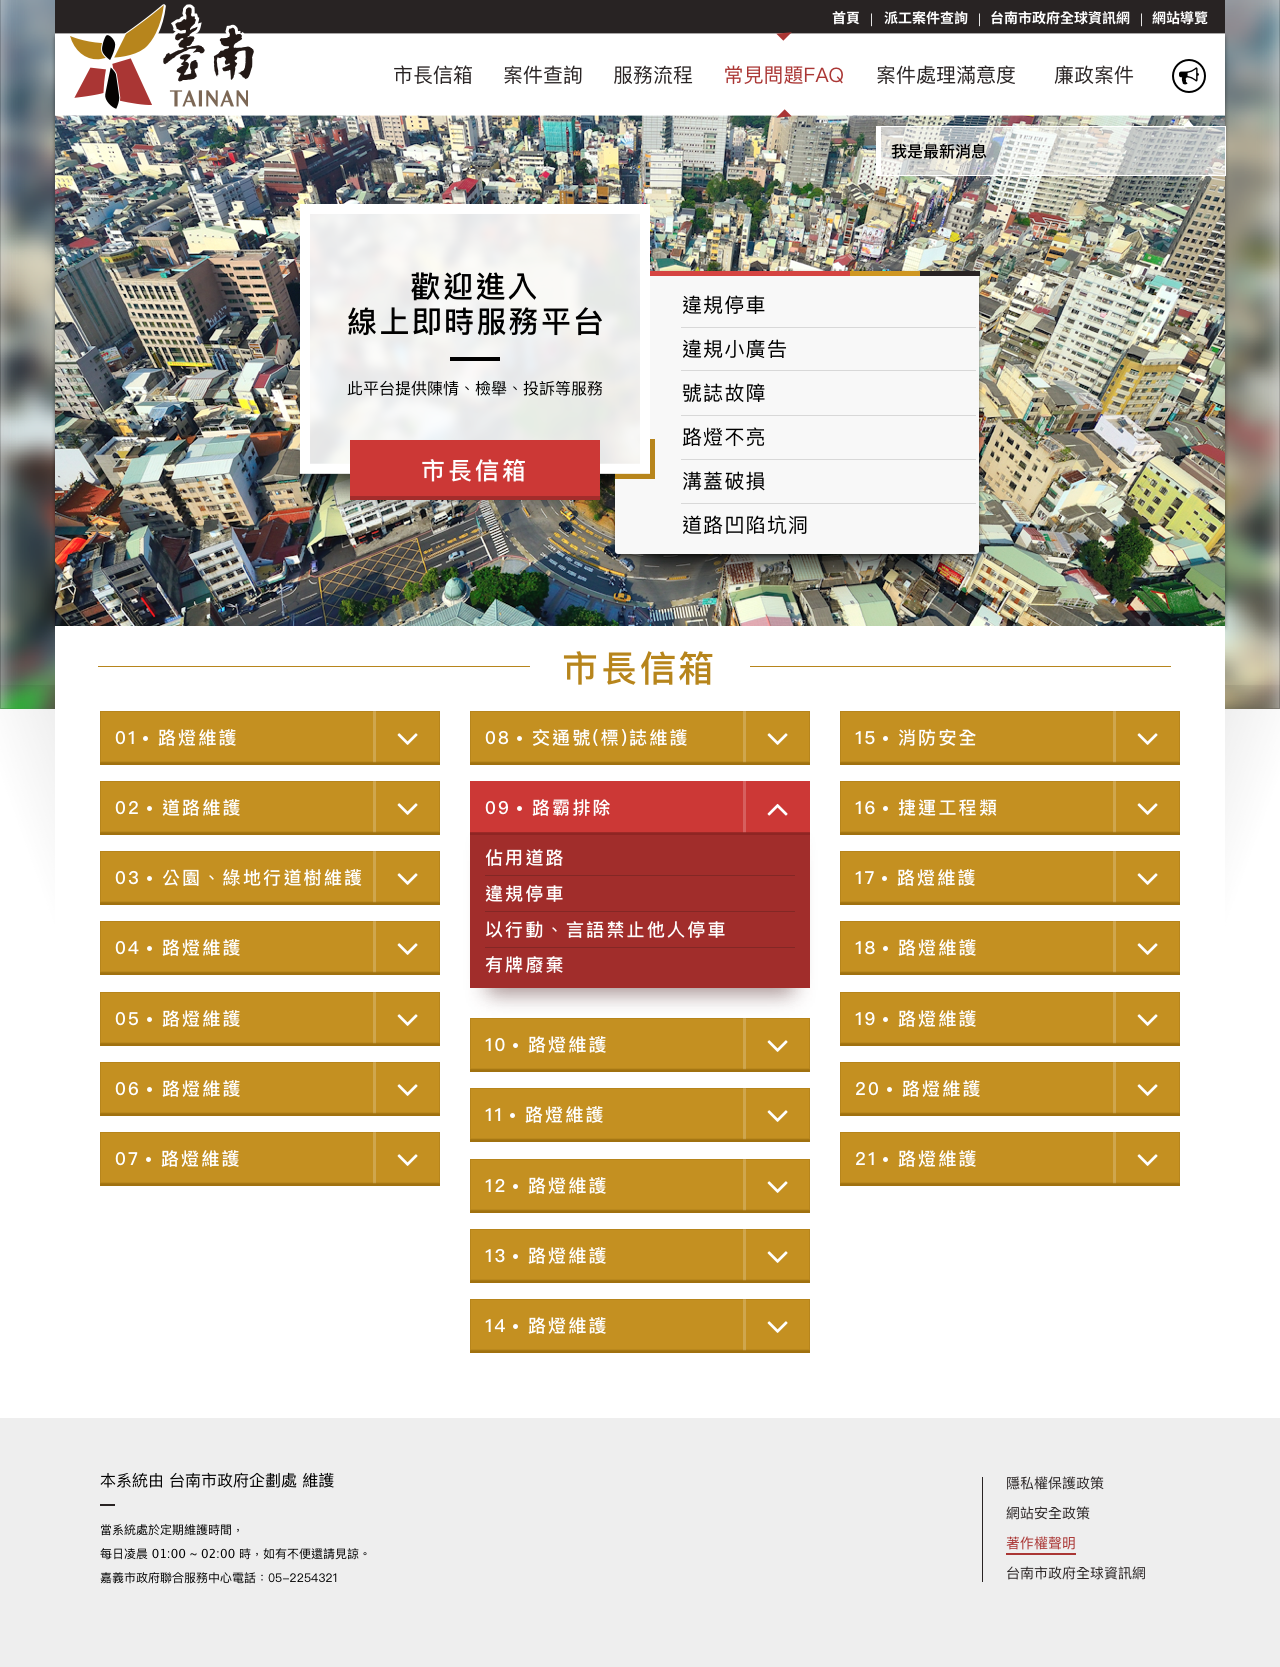
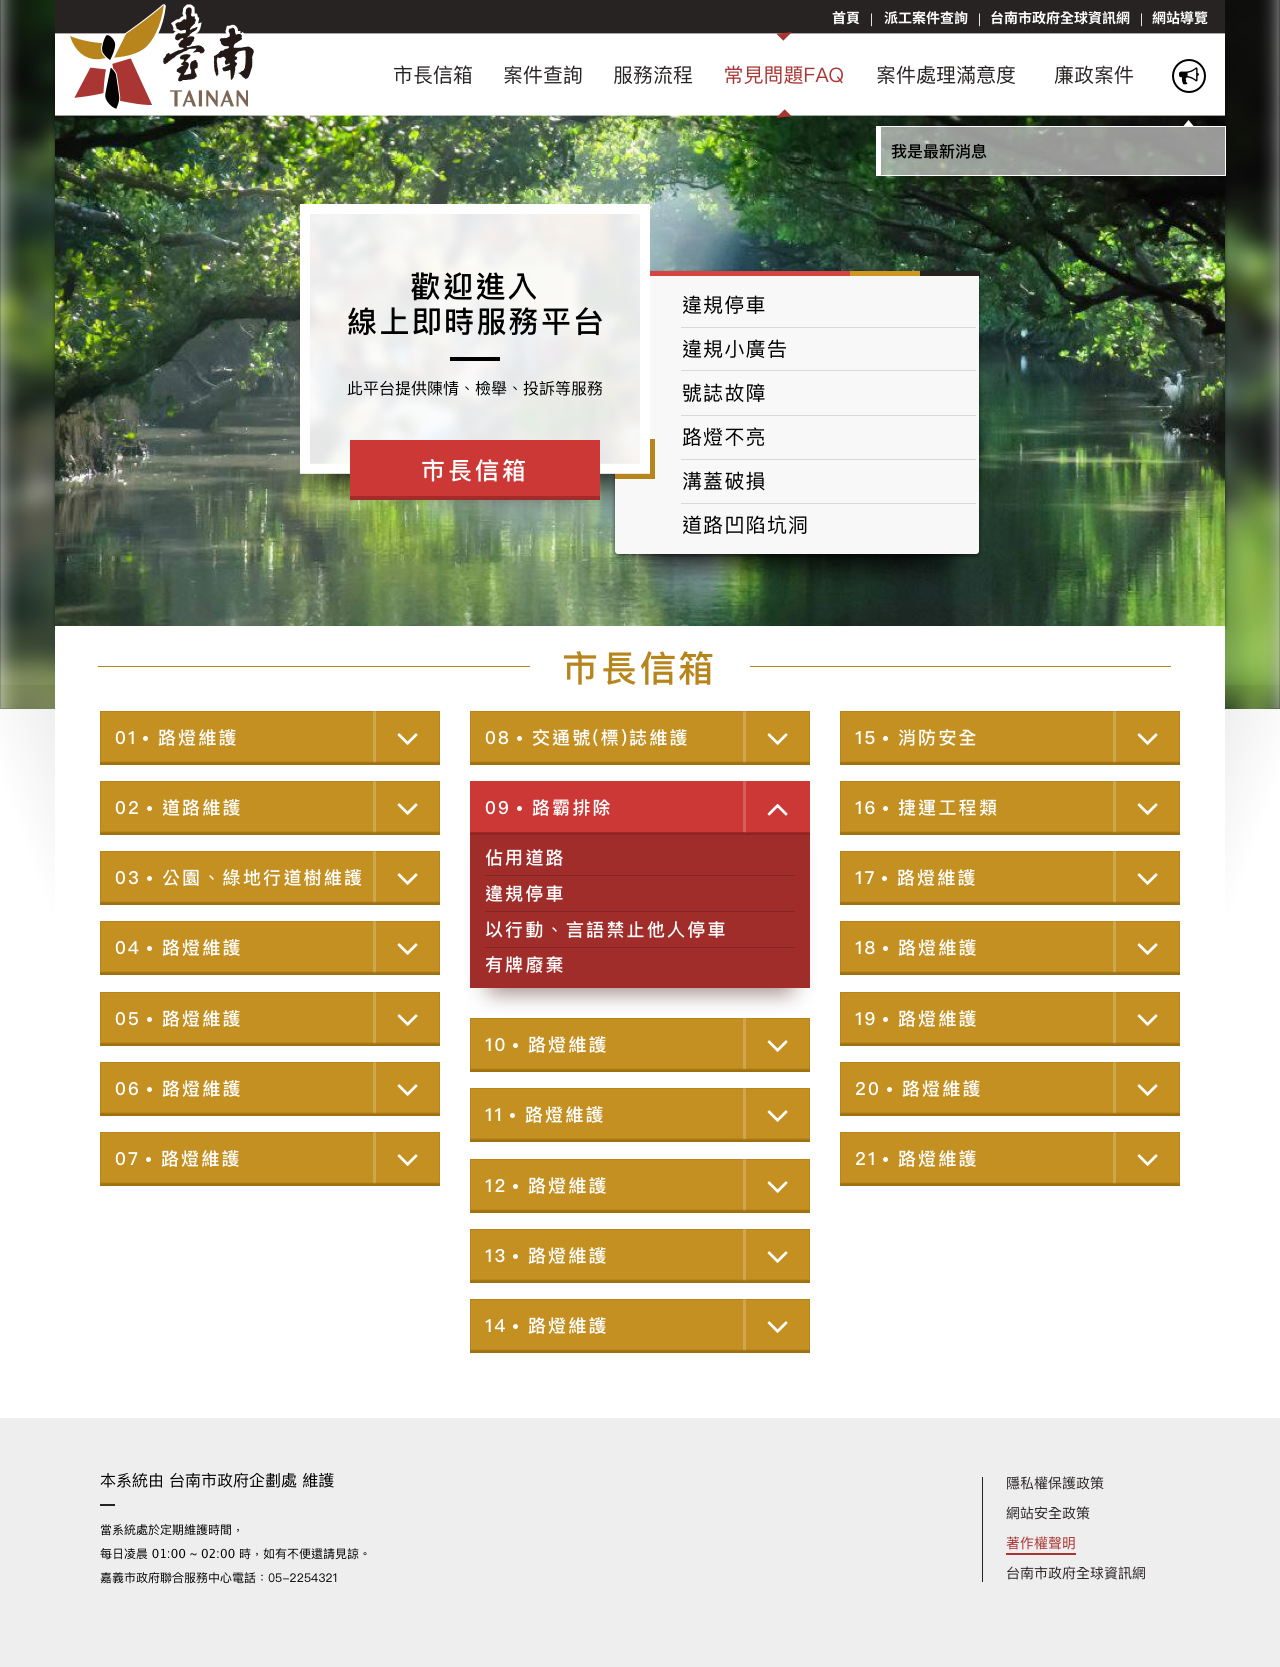
兩種設計

Changed region(s): [[0.0, 0.0, 1.0, 0.4367]]

diff --git a/demo/index2.html b/demo/index2.html
@@ -1,0 +1,27 @@
+<!DOCTYPE html>
+<html lang="en">
+<head>
+    <meta charset="UTF-8">
+    <meta name="viewport" content="width=device-width, initial-scale=1.0">
+    <meta http-equiv="X-UA-Compatible" content="ie=edge">
+    <title>Document</title>
+    <style>
+        * {
+            padding: 0;
+            margin: 0;
+        }
+        .wrap{
+            width: 1280px;
+            height: 1667px;
+        }
+        @media screen and (max-width: 320px) {
+
+        }
+    </style>
+</head>
+<body>
+    <div class="wrap">
+        <img src="assets/images/Desktop2.png" alt="">
+    </div>
+</body>
+</html>
